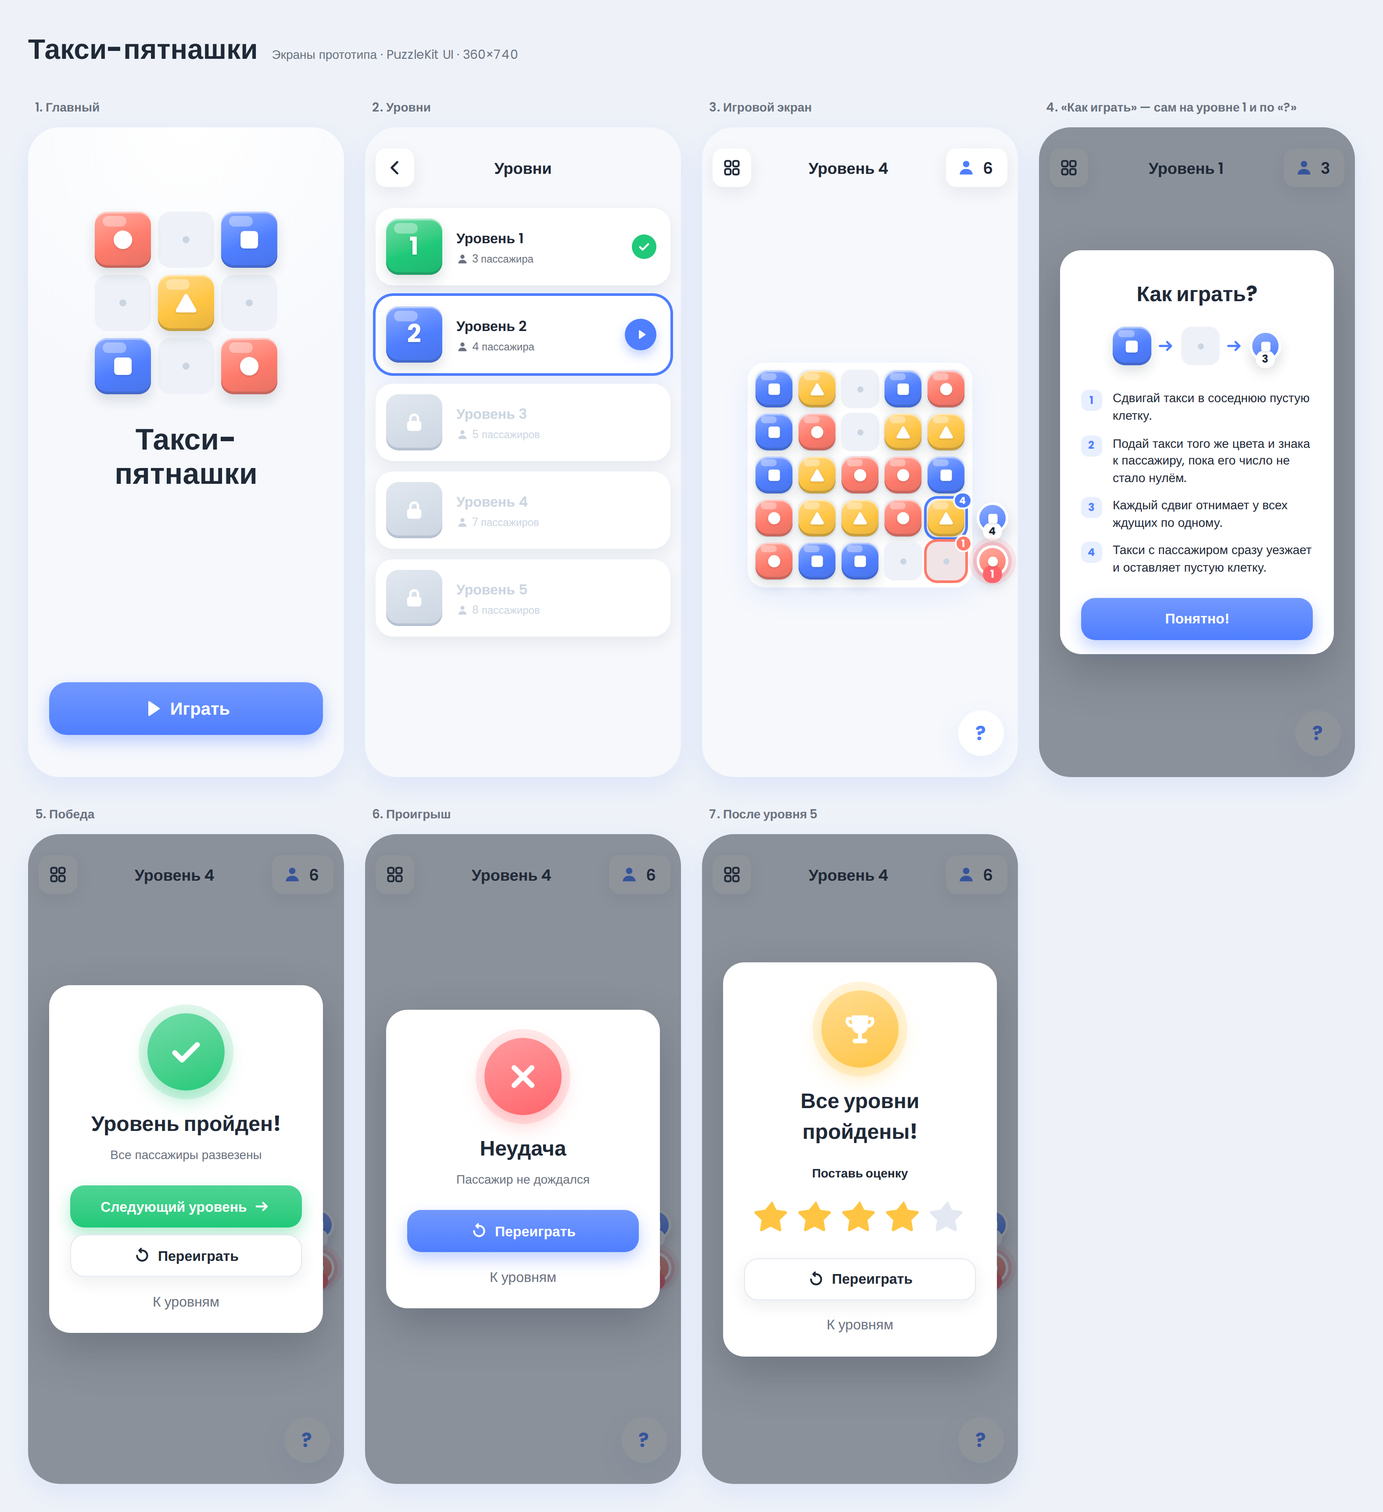
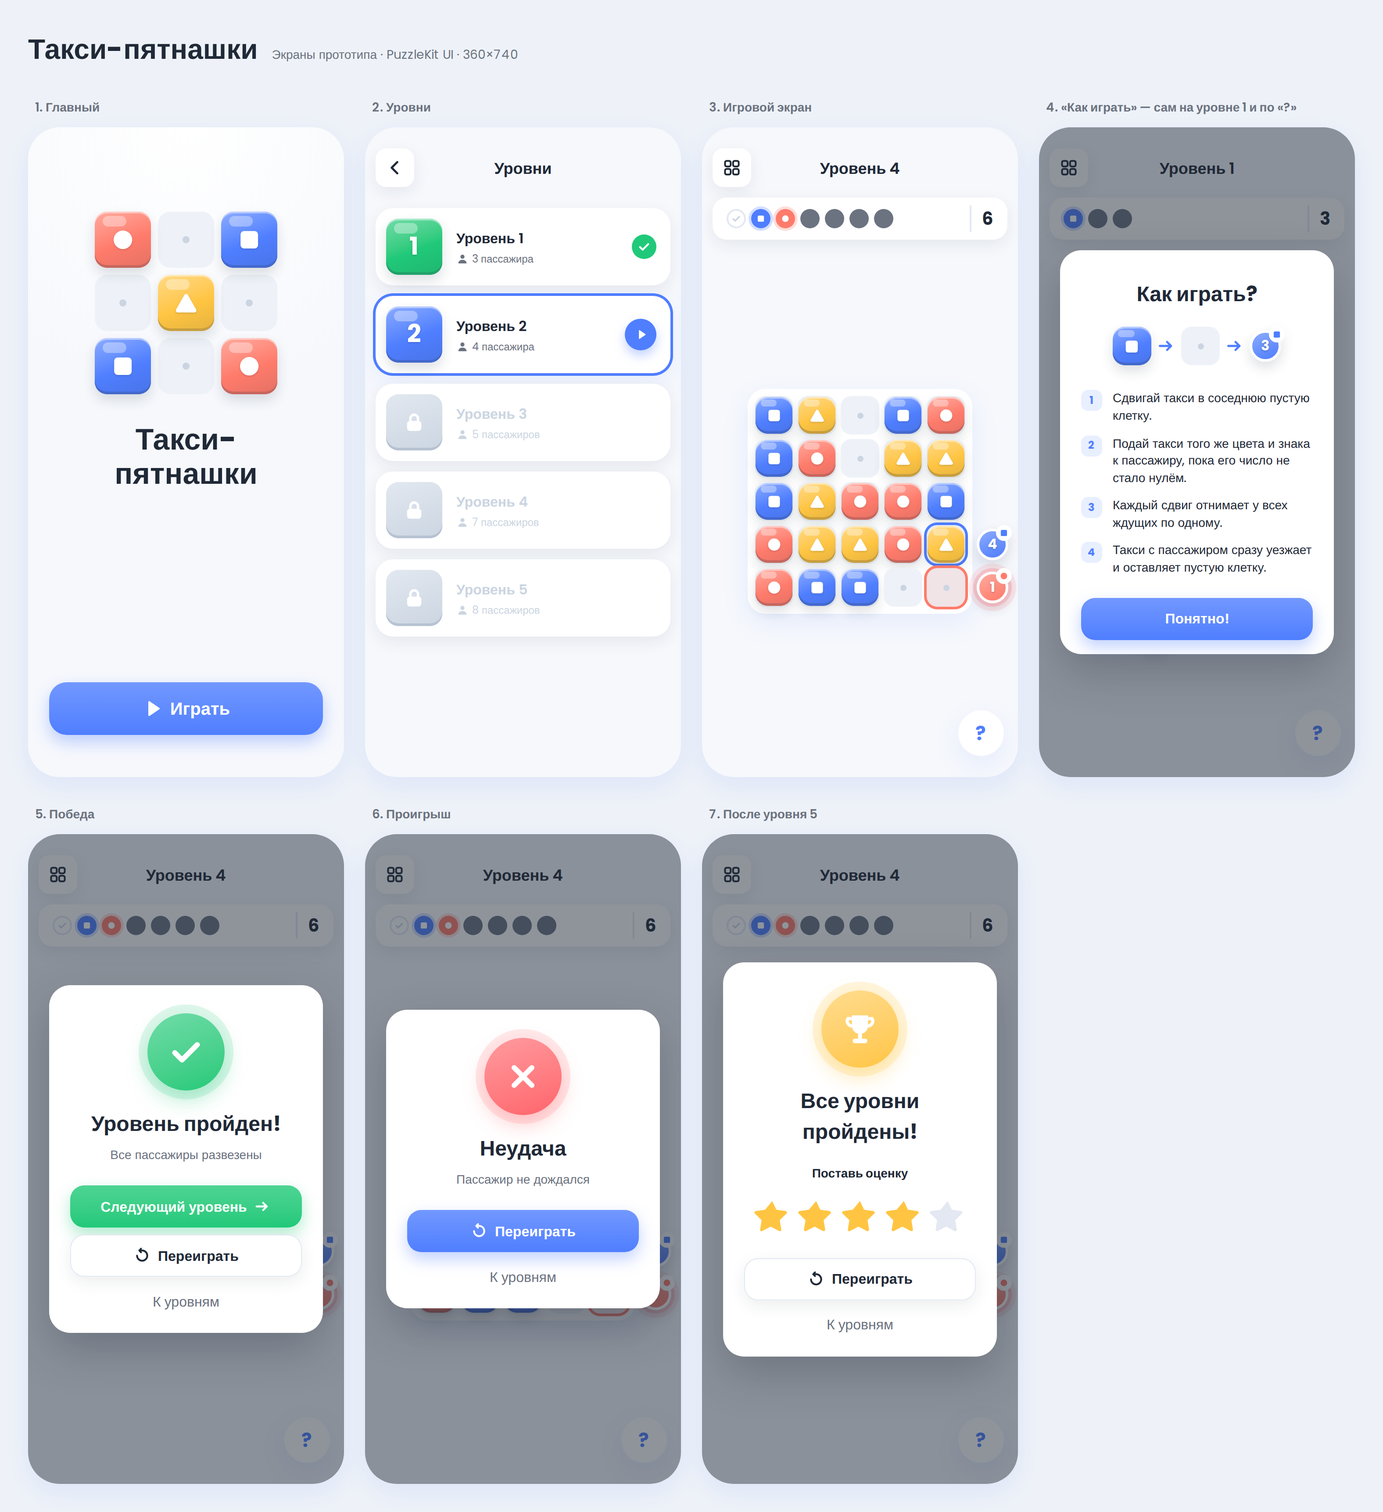
Такси-пятнашки: строка пассажиров вместо счётчика, число терпения на пассажире
Игровой экран по рисунку автора: строка всех пассажиров уровня с числом
оставшихся, терпение крупно на самом пассажире, без дубля на клетке. В §6 —
порядок появления пассажиров по уровням.

Claude-Session: https://claude.ai/code/session_01UgfpgFwki24HqyBcqzzLcR

diff --git a/UI Design/prototypes/taxi-slide/index.html b/UI Design/prototypes/taxi-slide/index.html
@@ -34,8 +34,6 @@
   /* top bar */
   .topbar { display: flex; align-items: center; justify-content: space-between; gap: var(--ui-space-3); height: 44px; }
   .topbar h2 { font-size: 18px; font-weight: 600; }
-  .counter { height: 44px; padding: 0 var(--ui-space-4) 0 var(--ui-space-3); border-radius: var(--ui-radius-medium); background: var(--ui-surface); box-shadow: var(--ui-shadow-soft); display: flex; align-items: center; gap: var(--ui-space-2); font-size: 18px; font-weight: 600; }
-  .counter svg { width: 22px; height: 22px; color: var(--ui-blue); }
 
   /* tiles */
   .tile { --c: var(--ui-blue); position: relative; border-radius: 14px; background: linear-gradient(160deg, color-mix(in srgb, var(--c) 65%, #fff) 0%, var(--c) 55%, color-mix(in srgb, var(--c) 88%, #1f2937) 100%); box-shadow: var(--ui-shadow-tile), inset 0 -3px 0 color-mix(in srgb, var(--c) 75%, #1f2937), inset 0 2px 0 rgba(255,255,255,0.45); display: grid; place-items: center; }
@@ -54,13 +52,22 @@
   .cell > .tile { position: absolute; inset: 1px; }
   .cell.target { box-shadow: 0 0 0 3px var(--tc); }
   .cell.target.empty { background: color-mix(in srgb, var(--tc) 12%, var(--ui-surface-muted)); }
-  .cell .cell-badge { position: absolute; top: -8px; right: -8px; z-index: 3; min-width: 20px; height: 20px; padding: 0 5px; border-radius: 999px; background: var(--tc); color: #fff; font-size: 11px; font-weight: 700; display: grid; place-items: center; border: 2px solid #fff; }
 
   .pax { position: absolute; width: 36px; height: 36px; border-radius: 50%; display: grid; place-items: center; border: 3px solid #fff; box-shadow: var(--ui-shadow-tile); background: linear-gradient(160deg, color-mix(in srgb, var(--c) 65%, #fff), var(--c)); }
-  .pax .glyph { width: 50%; height: 50%; }
-  .pax .patience { position: absolute; bottom: -10px; left: 50%; transform: translateX(-50%); min-width: 22px; height: 20px; padding: 0 6px; border-radius: 999px; background: var(--ui-surface); color: var(--ui-text); font-size: 12px; font-weight: 700; display: grid; place-items: center; box-shadow: var(--ui-shadow-soft); }
+  .pax .num { color: #fff; font-size: 16px; font-weight: 700; line-height: 1; text-shadow: 0 1px 2px rgba(31,41,55,0.25); }
+  .pax .mark { position: absolute; top: -7px; right: -7px; width: 18px; height: 18px; border-radius: 50%; background: #fff; box-shadow: var(--ui-shadow-soft); display: grid; place-items: center; color: var(--c); }
+  .pax .mark svg { width: 10px; height: 10px; }
   .pax.critical { box-shadow: 0 0 0 4px rgba(255,100,107,0.25), 0 0 0 9px rgba(255,100,107,0.12), var(--ui-shadow-tile); }
-  .pax.critical .patience { background: var(--ui-danger); color: #fff; }
+
+  /* очередь пассажиров под заголовком */
+  .queue { margin-top: var(--ui-space-3); height: 48px; padding: 0 var(--ui-space-4); border-radius: var(--ui-radius-large); background: var(--ui-surface); box-shadow: var(--ui-shadow-soft); display: flex; align-items: center; gap: 6px; }
+  .queue .q { width: 22px; height: 22px; border-radius: 50%; flex: none; display: grid; place-items: center; }
+  .queue .q.served { border: 2px solid var(--ui-border); background: var(--ui-surface); }
+  .queue .q.served svg { width: 12px; height: 12px; color: var(--ui-disabled); }
+  .queue .q.waiting { background: var(--c); box-shadow: 0 0 0 3px color-mix(in srgb, var(--c) 25%, transparent); }
+  .queue .q.waiting svg { width: 10px; height: 10px; color: #fff; }
+  .queue .q.queued { background: var(--ui-text-muted); }
+  .queue .left { margin-left: auto; padding-left: var(--ui-space-3); border-left: 2px solid var(--ui-border); font-size: 20px; font-weight: 700; }
 
   .help-fab { position: absolute; right: var(--ui-space-4); bottom: var(--ui-space-5); width: 52px; height: 52px; border-radius: 50%; background: var(--ui-surface); box-shadow: var(--ui-shadow-card); display: grid; place-items: center; font-size: 22px; font-weight: 700; color: var(--ui-blue); }
 
@@ -146,7 +153,7 @@ const GLYPH = { red: 'g-circle', blue: 'g-square', yellow: 'g-triangle' };
 const use = (id, cls = '') => `<svg class="${cls}"><use href="#${id}"/></svg>`;
 const taxi = (color) => `<div class="tile c-${color}">${use(GLYPH[color], 'glyph')}</div>`;
 const paxEl = (color, patience, critical, style = '') =>
-  `<div class="pax c-${color}${critical ? ' critical' : ''}" style="${style}">${use(GLYPH[color], 'glyph')}${patience != null ? `<span class="patience">${patience}</span>` : ''}</div>`;
+  `<div class="pax c-${color}${critical ? ' critical' : ''}" style="${style}"><span class="num">${patience}</span><span class="mark">${use(GLYPH[color])}</span></div>`;
 const colorVar = { red: 'var(--ui-coral)', blue: 'var(--ui-blue)', yellow: 'var(--ui-yellow)' };
 
 // Уровень 4 из прототипа play; ждут двое, у кораллового последний ход.
@@ -172,7 +179,7 @@ function boardHtml(grid, passengers, { cell = 44, gap = 5, pad = 8, lane = 40 } 
     const t = targets[`${r},${c}`];
     const cls = ['cell', v === '.' ? 'empty' : '', t ? 'target' : ''].join(' ');
     const style = t ? `--tc:${colorVar[t.color]}` : '';
-    cells += `<div class="${cls}" style="${style}">${v !== '.' ? taxi(NAME[v]) : ''}${t ? `<span class="cell-badge">${t.patience}</span>` : ''}</div>`;
+    cells += `<div class="${cls}" style="${style}">${v !== '.' ? taxi(NAME[v]) : ''}</div>`;
   }));
   const pax = passengers.map(p => {
     const center = lane + pad + p.index * (cell + gap) + cell / 2 - 18;
@@ -185,18 +192,28 @@ function boardHtml(grid, passengers, { cell = 44, gap = 5, pad = 8, lane = 40 } 
     <div class="board" style="left:${lane}px;top:${lane}px;width:${inner}px;height:${inner}px;padding:${pad}px;gap:${gap}px;grid-template-columns:repeat(5,${cell}px);grid-template-rows:repeat(5,${cell}px)">${cells}</div>${pax}</div>`;
 }
 
-function gameScreen({ level, left, grid, passengers }) {
+// Строка пассажиров: обслуженные — пустые кружки, ждущие — в своём цвете,
+// ещё не пришедшие — серые, цвет не раскрывается. Справа — сколько осталось.
+function queueHtml({ served, total, passengers }) {
+  const waiting = passengers.map(p => `<span class="q waiting c-${p.color}">${use(GLYPH[p.color])}</span>`).join('');
+  const queued = total - served - passengers.length;
+  const done = `<span class="q served">${use('i-check')}</span>`.repeat(served);
+  return `<div class="queue">${done}${waiting}${'<span class="q queued"></span>'.repeat(queued)}<span class="left">${total - served}</span></div>`;
+}
+
+function gameScreen({ level, served, total, grid, passengers }) {
   return `<div class="topbar">
       <div class="icon-btn" title="К уровням">${use('i-levels')}</div>
       <h2>Уровень ${level}</h2>
-      <div class="counter" title="Осталось развезти">${use('i-person')}${left}</div>
+      <div style="width:44px"></div>
     </div>
+    ${queueHtml({ served, total, passengers })}
     <div style="flex:1;display:grid;place-items:center">${boardHtml(grid, passengers)}</div>
     <div class="help-fab">?</div>`;
 }
 
 const game4 = gameScreen({
-  level: 4, left: 6, grid: LEVEL4,
+  level: 4, served: 1, total: 7, grid: LEVEL4,
   passengers: [
     { color: 'blue', side: 'right', index: 3, patience: 4 },
     { color: 'red', side: 'right', index: 4, patience: 1 },
@@ -210,7 +227,7 @@ const LEVEL1 = [
   'r . y b .',
   'r r . r .',
 ].map(r => r.split(' '));
-const game1 = gameScreen({ level: 1, left: 3, grid: LEVEL1, passengers: [{ color: 'blue', side: 'bottom', index: 1, patience: 9 }] });
+const game1 = gameScreen({ level: 1, served: 0, total: 3, grid: LEVEL1, passengers: [{ color: 'blue', side: 'bottom', index: 1, patience: 9 }] });
 
 const screens = [
   ['1. Главный', `<div class="phone home">

diff --git a/specs/02-two-moves-later.md b/specs/02-two-moves-later.md
@@ -245,19 +245,24 @@ type Action =
   15% ходов свайпает наугад, выигрывает в полосе своего уровня (столбец
   «Бот»). Это мера сложности, а не прогноз для людей.
 
-«Одновременно» — сколько пассажиров появляется разом. «Чужие» — сколько
+«Появляются» — порядок групп: `1 → 2` значит, что сначала приходит один
+пассажир, а следующая группа из двух — после того, как его развезли.
+Больше, чем размер группы, одновременно не ждёт никто. «Чужие» — сколько
 свайпов на маршруте солвера делают такси не того цвета, что у самого срочного
 пассажира. Уровни 1–4 и их числа замерены на прототипе в play; пересобранные
 уровни обязаны попасть в те же полосы. **Уровень 5 ещё не сгенерирован:** его
 строка — задание генератору, числа маршрута появятся после сборки.
 
-| Уровень | Старт | Пассажиры | Одновременно | Терпение | Новый навык | Главное давление | Маршрут / чужие | Бот |
-|---:|---|---|---|---|---|---|---:|---:|
-| 1 | 17 такси, 8 пустот | 3; запас +5 | 1 | 7–9 | свайп, цена хода, немедленный выезд | почти нет | 8 / 1 | 93% |
-| 2 | 21 такси, 4 пустоты | 4; запас +4 | 1 | 6–8 | подвинуть чужое такси ради пустоты | теснота | 11 / 5 | 55% |
-| 3 | 20 такси, 5 пустот | 5; запас +3 | 2 | 5–9 | двое ждут одновременно | общий расход ходов | 13 / 6 | 33% |
-| 4 | 21 такси, 4 пустоты | 7; запас +3 | 2 | 5–10 | планировать пустоту на два заказа вперёд | теснота и пары | 19 / 8 | 13% |
-| 5 | 21 такси, 4 пустоты | 8, группами 3 · 3 · 2 (`unlockAfterServed` 0,0,0 · 3,3,3 · 6,6); запас +2 | 3 | по генератору | держать в голове три заказа сразу | три дедлайна на одно поле | после сборки | 5–8% |
+| Уровень | Старт | Пассажиры | Появляются | Макс. ждут | Терпение | Новый навык | Главное давление | Маршрут / чужие | Бот |
+|---:|---|---|---|---:|---|---|---|---:|---:|
+| 1 | 17 такси, 8 пустот | 3; запас +5 | 1 → 1 → 1 | 1 | 7–9 | свайп, цена хода, немедленный выезд | почти нет | 8 / 1 | 93% |
+| 2 | 21 такси, 4 пустоты | 4; запас +4 | 1 → 1 → 1 → 1 | 1 | 6–8 | подвинуть чужое такси ради пустоты | теснота | 11 / 5 | 55% |
+| 3 | 20 такси, 5 пустот | 5; запас +3 | 1 → 1 → 2 → 1 | 2 | 5–9 | двое ждут одновременно | общий расход ходов | 13 / 6 | 33% |
+| 4 | 21 такси, 4 пустоты | 7; запас +3 | 1 → 2 → 2 → 2 | 2 | 5–10 | планировать пустоту на два заказа вперёд | теснота и пары | 19 / 8 | 13% |
+| 5 | 21 такси, 4 пустоты | 8; запас +2 | 3 → 3 → 2 | 3 | по генератору | держать в голове три заказа сразу | три дедлайна на одно поле | после сборки | 5–8% |
+
+`unlockAfterServed` по уровням: 1 — `0, 1, 2`; 2 — `0, 1, 2, 3`; 3 — `0, 1,
+2, 2, 4`; 4 — `0, 1, 1, 3, 3, 5, 5`; 5 — `0, 0, 0, 3, 3, 3, 6, 6`.
 
 Разница между соседними уровнями:
 
@@ -279,8 +284,8 @@ type Action =
 - **Доступное действие:** в начале свайпа такси чуть приподнимается, а
   соседняя пустота в выбранном направлении пульсирует точкой.
 - **Запрещённое действие:** такси коротко покачивается, терпение не меняется.
-- **Цена хода:** после сдвига число у каждого ожидающего пассажира
-  уменьшается на один; число `1` становится красным, пассажир пульсирует.
+- **Цена хода:** после сдвига число на каждом ожидающем пассажире
+  уменьшается на один; на `1` пассажир пульсирует красным кольцом.
 - **Победа:** последний пассажир уезжает, оставшиеся такси подпрыгивают
   волной, затем попап победы.
 - **Поражение:** круг пассажира гаснет и уходит за край, его место посадки
@@ -318,11 +323,14 @@ type Action =
    «Уровень N», число пассажиров. Пройденный — зелёный тайл и галочка.
    Текущий (первый непройденный) — синий тайл, синяя обводка, кнопка ▶.
    Закрытый — серый тайл с замком, бледный текст.
-3. **Игровой экран.** Сверху слева «к уровням», по центру «Уровень N»,
-   справа счётчик пассажиров, которых ещё надо развезти (фигурка и число).
-   Остальное место — поле `5×5`. Пассажиры-круги стоят снаружи напротив своих
-   краевых клеток, место посадки обведено цветом пассажира и несёт бейдж с
-   тем же терпением. Внизу справа круглая кнопка «?».
+3. **Игровой экран.** Сверху слева «к уровням», по центру «Уровень N».
+   Под ними **строка пассажиров**: по кружку на каждого пассажира уровня в
+   порядке появления, справа число оставшихся. Развезённый — пустой кружок с
+   галочкой, ждущий — в своём цвете со знаком, ещё не пришедший — серый, его
+   цвет заранее не раскрывается. Остальное место — поле `5×5`.
+   Пассажиры-круги стоят снаружи напротив своих краевых клеток: цвет, число
+   терпения крупно внутри, знак в белом кружке сбоку. Место посадки обведено
+   цветом пассажира, числа на клетке нет. Внизу справа круглая кнопка «?».
 4. **Попап «Как играть»** — поверх затемнённого поля (§7).
 5. **Попап победы, уровни 1–4.** Зелёная галочка, «Уровень пройден!», «Все
    пассажиры развезены». Кнопки: «Следующий уровень» (зелёная), «Переиграть»,
@@ -339,8 +347,8 @@ type Action =
 становится новой пустотой.
 
 **Второй канал к цвету.** Цвет дублируется знаком внутри объекта: коралловый —
-круг, синий — квадрат, жёлтый — треугольник. Один знак стоит на такси и на
-пассажире.
+круг, синий — квадрат, жёлтый — треугольник. Знак стоит на такси, на
+пассажире и на его кружке в строке пассажиров.
 
 # 8. Проверка прототипа
 
